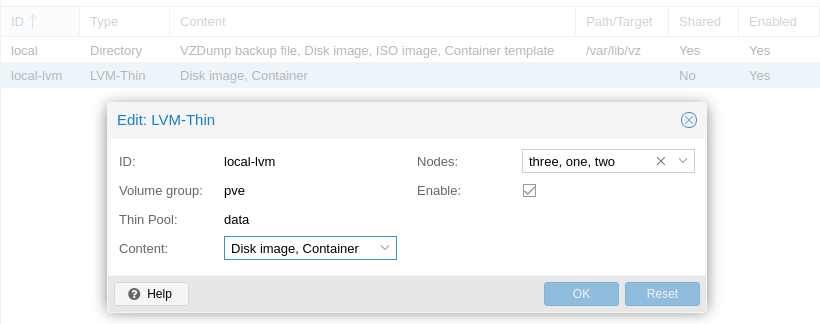
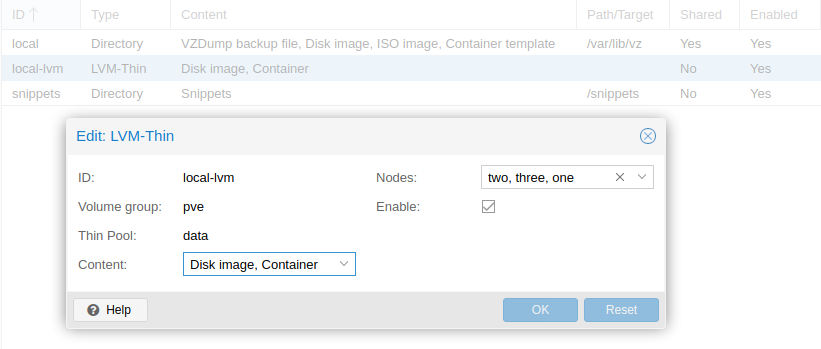
README & template sh updated - Proxmox-VE snippets directiory creation info added - cloud-init-config.yml path changed to /snippets/snippets in sh

diff --git a/README.md b/README.md
@@ -51,10 +51,11 @@ To create cloud-init template(s) `create-template-via-cloudinit.sh` should be ex
 |  1  |`create-template-via-cloudinit.sh` **should be executed on a Proxmox VE 6.x Server.** |
 |  2  |A DHCP Server should be active on `vmbr0`. |
 |  3  | **Download Latest Version of the Script on Proxmox VE Server:**<br> `curl https://raw.githubusercontent.com/BarisGece/mHC/main/proxmox-ve/create-template-via-cloudinit.sh > /usr/local/bin/create-template-via-cloudinit.sh && chmod -v +x /usr/local/bin/create-template-via-cloudinit.sh` |
-|  4  | (optionally) Prepare a cloudinit **user-config.yml** in the working directory. For more information [Cloud-Init-Config Sample][Cloud-Init-Config Sample].<br> This could be copied and modified from the cloudinit user dump at the end of this script. |
-|  5  | Run the Script:<br> `$ create-template-via-cloudinit.sh` |
-|  6  | Clone the Finished Template from the Proxmox GUI and Test. |
-|  7  | To the migration to be completed successfully, the Proxmox Storage Configuration should be set as follows.<br> **local**(*Type - Directory*):<ul><li>***Content:*** **VZDump backup file, Disk image, ISO image, Container template**</li><li>***Path/Target:*** **/var/lib/vz**</li><li>***Shared:*** **Yes**</li></ul> **local-lvm**(*Type - LVM-Thin*):<ul><li>***Content:*** **Disk image, Container**</li><li>***Nodes:*** **Select ALL Nodes by one by**</li></ul> *All of them should be **ENABLED***<br> ![DC_Storage_Settings](./img/DC_Storage_Settings.png)  |
+|  4  | **++--Caution!--++ MUST to DO USE cloud-init-config.yml**<br> The cloud-init files need to be stored in a **snippet**. There is not detail information very well documented in [Proxmox-VE qm cloud_init][Proxomox-VE qm cloud_init] but [Alex Williams][AW Gist] informed well for us. <ol><li>Go to `Storage View -> Storage -> Add -> Directory`</li><li>Give it an ID such as `snippets`, and specify any path on your host such as `/snippets`</li><li>Under `Content` choose `Snippets` and de-select `Disk image` (optional)</li><li>Upload (scp/rsync/whatever) your `user-data, meta-data, network-config` files to your _proxmox_ server in `/snippets/snippets/` (the directory should be there if you followed steps 1-3)</li></ol> Finally, you just need to `qm set` with `--cicustom`, like this:<br> `qm set 100 --cicustom "user=snippets:snippets/user-data,network=snippets:snippets/network-config,meta=snippets:snippets/meta-data"` |
+|  4  | (optionally) Prepare a cloudinit **user-cloud-init-config.yml** in the working directory. For more information [Cloud-Init-Config Sample][Cloud-Init-Config Sample].<br> [sample-cloud-init-config.yml][sample-cloud-init-config.yml] can be used as a sample. |
+|  6  | To the migration to be completed successfully, the Proxmox Storage Configuration should be set as follows.<br> **local**(*Type - Directory*):<ul><li>***Content:*** **VZDump backup file, Disk image, ISO image, Container template**</li><li>***Path/Target:*** **/var/lib/vz**</li><li>***Shared:*** **Yes**</li></ul> **local-lvm**(*Type - LVM-Thin*):<ul><li>***Content:*** **Disk image, Container**</li><li>***Nodes:*** **Select ALL Nodes by one by**</li></ul> *All of them should be **ENABLED***<br> ![DC_Storage_Settings](./img/DC_Storage_Settings.png)  |
+|  7  | Run the Script:<br> `$ create-template-via-cloudinit.sh` |
+|  8  | Clone the Finished Template from the Proxmox GUI and Test. |
 
 ### Documentations
 
@@ -76,6 +77,10 @@ To create cloud-init template(s) `create-template-via-cloudinit.sh` should be ex
 [PVE-LVM_Options]:                          https://pve.proxmox.com/pve-docs/pve-admin-guide.html#advanced_lvm_options
 [chriswayg]:                                https://github.com/chriswayg
 [chriswayg-gist]:                           https://gist.github.com/chriswayg/43fbea910e024cbe608d7dcb12cb8466
+[Proxomox-VE qm cloud_init]:                https://pve.proxmox.com/pve-docs/pve-admin-guide.html#qm_cloud_init
+[AW Gist]:                                  https://gist.github.com/aw/ce460c2100163c38734a83e09ac0439a
+[Cloud-Init-Config Sample]:                 https://cloudinit.readthedocs.io/en/latest/topics/examples.html#yaml-examples
+[sample-cloud-init-config.yml]:             https://raw.githubusercontent.com/BarisGece/mHC/main/proxmox-ve/sample-cloud-init-config.yml
 [Admin Guide - PDF]:                        https://proxmox.com/en/downloads/item/proxmox-ve-admin-guide-for-6-x
 [Admin Guide - HTML]:                       https://pve.proxmox.com/pve-docs/pve-admin-guide.html
 [Wiki Page]:                                https://pve.proxmox.com/wiki/Main_Page
@@ -85,5 +90,4 @@ To create cloud-init template(s) `create-template-via-cloudinit.sh` should be ex
 [Proxmox(qm) Cloud-Init Support-Guide]:     https://pve.proxmox.com/pve-docs/pve-admin-guide.html#qm_cloud_init
 [Proxmox(qm) Cloud-Init Support-Wiki]:      https://pve.proxmox.com/wiki/Cloud-Init_Support
 [Proxmox(qm) Cloud-Init Support FAQ-Wiki]:  https://pve.proxmox.com/wiki/Cloud-Init_FAQ
-[Cloud-Init-Config Sample]:                 https://cloudinit.readthedocs.io/en/latest/topics/examples.html#yaml-examples
 [Ubuntu Autoinstall Quick Start]:           https://ubuntu.com/server/docs/install/autoinstall-quickstart
